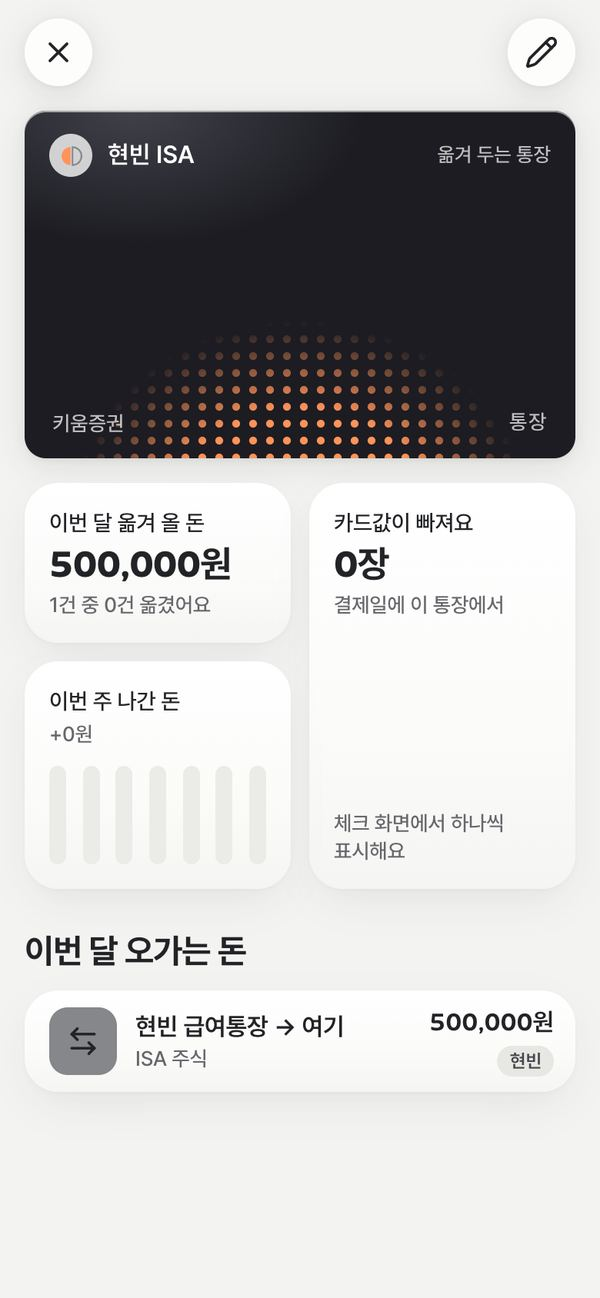
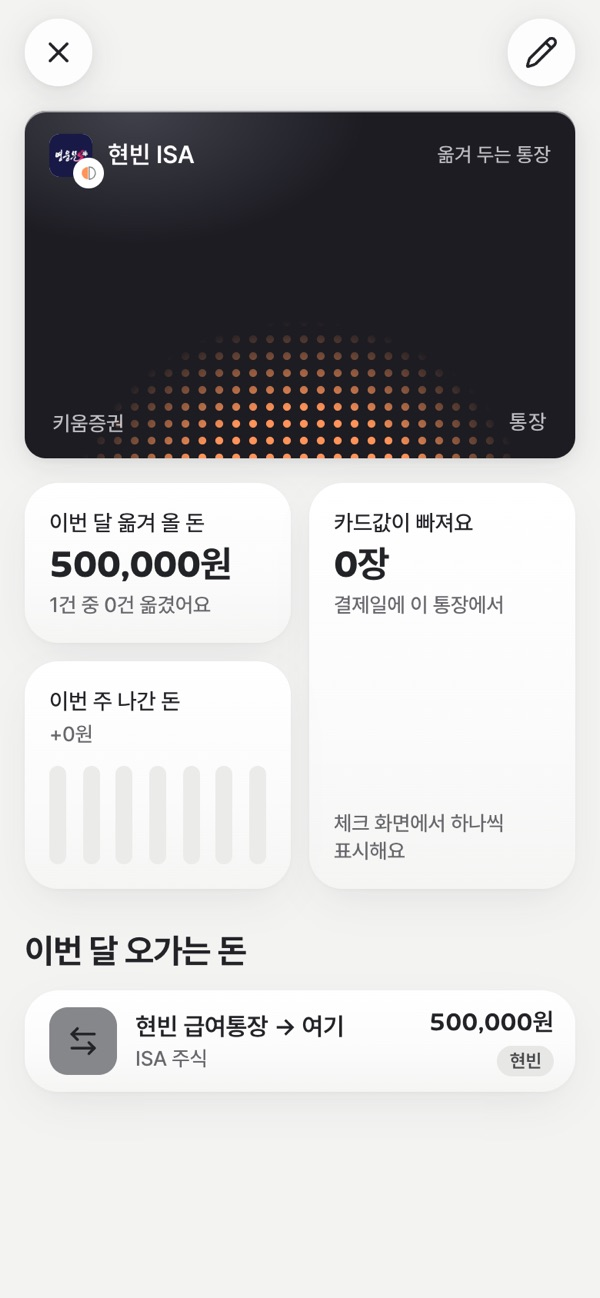
통장·카드에 은행·카드사·증권사 로고 — 공식 아이콘을 저장소에 두고, 주인은 귀퉁이 반쪽 동전으로
통장·카드 왼쪽 표시가 주인 반쪽 동전뿐이라 앱 아이콘처럼 보이고 어느 회사 것인지 알 수 없었다.
각 회사 공식 사이트·앱스토어 아이콘 36개를 96px PNG 로 받아 public/inst/ 에 두고(앱은 외부에 요청하지 않음, CSP img-src 'self' 그대로),
기관 이름으로 찾아 지갑·카드 추가 미리보기·고르기 칩에 보인다. 로고를 못 구한 곳은 이름 첫 글자.

Changed region(s): [[0.06, 0.0924, 0.18, 0.1541]]

diff --git a/apps/web/src/lib/institutions.ts b/apps/web/src/lib/institutions.ts
@@ -1,5 +1,6 @@
 // 은행·증권사·카드사 이름 — 지갑에 카드·통장을 넣을 때 몇 글자만 쳐도 고르게 한다.
-// 이름이 한 가지로 맞춰지면("삼성 카드" → "삼성카드") 나중에 카드 알림으로 카드사를 찾기 쉽다. 로고·색은 쓰지 않는다.
+// 이름이 한 가지로 맞춰지면("삼성 카드" → "삼성카드") 나중에 카드 알림으로 카드사를 찾기 쉽다.
+// 로고는 각 회사의 공식 사이트·앱 아이콘(96px, public/inst/)으로, 통장·카드가 어느 회사 것인지 알아보는 데만 쓴다 — 상표는 각 회사의 것.
 
 export const BANKS = [
   "KB국민은행", "신한은행", "우리은행", "하나은행", "NH농협은행", "IBK기업은행", "카카오뱅크", "케이뱅크", "토스뱅크",
@@ -31,4 +32,28 @@ export function suggestInstitutions(kind: "bank" | "card", typed: string, max = 
 export function canonicalInstitution(typed: string): string {
   const q = norm(typed);
   return [...CARD_ISSUERS, ...BANKS].find((n) => norm(n) === q) ?? typed.trim();
+}
+
+/** 목록 이름 → 로고 파일(public/inst/<이름>.png). 깔끔한 로고를 못 구한 곳(우체국·삼성카드)은 없음 → 첫 글자 배지 */
+const LOGO: Record<string, string> = {
+  KB국민은행: "kb", 신한은행: "shinhan", 우리은행: "woori", 하나은행: "hana", NH농협은행: "nh", IBK기업은행: "ibk", 카카오뱅크: "kakaobank",
+  케이뱅크: "kbank", 토스뱅크: "tossbank", SC제일은행: "sc", 한국씨티은행: "citi", KDB산업은행: "kdb", 수협은행: "suhyup", iM뱅크: "im",
+  부산은행: "busan", 경남은행: "kyongnam", 광주은행: "kjbank", 전북은행: "jbbank", 제주은행: "jeju", 새마을금고: "kfcc", 신협: "cu", 지역농협: "nh",
+  미래에셋증권: "miraeasset", 삼성증권: "samsungpop", 한국투자증권: "koreainvest", NH투자증권: "nhqv", KB증권: "kbsec", 키움증권: "kiwoom",
+  신한투자증권: "shinhansec", 토스증권: "tossinvest",
+  신한카드: "shinhancard", 현대카드: "hyundaicard", KB국민카드: "kbcard", 롯데카드: "lottecard", 하나카드: "hana", 우리카드: "wooricard",
+  BC카드: "bccard", NH농협카드: "nhcard",
+};
+
+// 적은 이름에 들어 있으면 맞는 것으로 보는 말: 목록 이름과, 앞 영문을 뗀 이름("KB국민은행" → "국민은행"). 너무 짧은 말("카드")은 뺀다
+const KEYS = Object.keys(LOGO)
+  .flatMap((n) => [norm(n), norm(n).replace(/^[a-z]+/, "")].filter((k) => k.length >= 3).map((k) => [k, LOGO[n]] as const))
+  .sort((a, b) => b[0].length - a[0].length);
+
+/** 기관 이름의 로고 파일 경로. "국민은행"·"카카오뱅크 모임통장"처럼 조금 달라도 가장 길게 맞는 이름으로 찾는다 */
+export function logoOf(institution: string): string | null {
+  const q = norm(institution);
+  if (!q) return null;
+  const hit = KEYS.find(([k]) => q.includes(k));
+  return hit ? `/inst/${hit[1]}.png` : null;
 }

diff --git a/apps/web/src/components/pass.tsx b/apps/web/src/components/pass.tsx
@@ -1,8 +1,10 @@
 "use client";
 
-import type { Account, Data, Group } from "@/lib/types";
+import type { Account, Data, Group, Owner } from "@/lib/types";
 import { useData } from "@/lib/store";
 import { spendingsIn } from "@/lib/calc";
+import { logoOf } from "@/lib/institutions";
+import { PersonGlyph } from "./ui";
 
 export const BUCKET: Partial<Record<Group, string>> = { living: "var(--g-living)", allowance: "var(--g-allowance)" };
 export const PERSON = { a: "var(--a)", b: "var(--b)", joint: "var(--joint)" } as const;
@@ -31,3 +33,29 @@ export function MiniCard({ account }: { account: Account }) {
   return <span className={`mini-pass ${art.className}`} style={art.style} aria-hidden="true" />;
 }
 
+
+/**
+ * 통장·카드 왼쪽 위 표시: 은행·카드사·증권사 로고(없으면 이름 첫 글자), 귀퉁이에 주인 반쪽 동전.
+ * 기관을 아직 안 적었으면 지금처럼 주인 반쪽 동전만.
+ */
+export function InstMark({ institution, owner }: { institution: string; owner: Owner }) {
+  const name = institution.trim();
+  if (!name) {
+    return (
+      <span className="who-dot">
+        <PersonGlyph owner={owner} />
+      </span>
+    );
+  }
+  const logo = logoOf(name);
+  return (
+    <span className="who-dot inst">
+      {/* 정적 내보내기라 next/image 최적화가 없다 — 96px 파일을 그대로 */}
+      {/* eslint-disable-next-line @next/next/no-img-element */}
+      {logo ? <img src={logo} alt="" width={28} height={28} decoding="async" /> : <span className="inst-initial">{name.replace(/^[A-Za-z]+/, "").slice(0, 1) || name.slice(0, 1)}</span>}
+      <span className="inst-owner">
+        <PersonGlyph owner={owner} />
+      </span>
+    </span>
+  );
+}

diff --git a/apps/web/src/app/wallet.css b/apps/web/src/app/wallet.css
@@ -50,6 +50,12 @@ button.pass:focus-visible .face { outline: 2px solid var(--accent-ink); outline-
 .pass .top { position: absolute; top: 0; right: 16px; left: 16px; display: flex; align-items: center; gap: 10px; height: var(--pass-peek); }
 .pass .who-dot { display: grid; flex: none; place-items: center; width: 28px; height: 28px; border-radius: var(--radius-chip); background: color-mix(in srgb, var(--surface) 78%, transparent); }
 .pass .who-dot svg { width: 19px; height: 19px; }
+/* 은행·카드사·증권사 로고(없으면 이름 첫 글자), 오른쪽 아래 귀퉁이에 주인 반쪽 동전 (components/pass.tsx InstMark) */
+.pass .who-dot.inst { position: relative; border-radius: var(--radius-logo); background: var(--surface); box-shadow: 0 0 0 1px color-mix(in srgb, var(--text) 8%, transparent); }
+.pass .who-dot.inst img { display: block; width: 28px; height: 28px; border-radius: inherit; }
+.pass .inst-initial { color: var(--text); font: 700 14px/1 var(--font-text); }
+.pass .inst-owner { position: absolute; right: -6px; bottom: -6px; display: grid; place-items: center; width: 17px; height: 17px; border-radius: var(--radius-chip); background: var(--surface); box-shadow: 0 0 0 1.5px var(--surface); }
+.pass .inst-owner svg { width: 13px; height: 13px; }
 .pass .nm { min-width: 0; overflow: hidden; font: 600 16px/22px var(--font-text); white-space: nowrap; text-overflow: ellipsis; }
 .pass .amt { margin-left: auto; font: 600 16px/22px var(--font-display); font-variant-numeric: tabular-nums; white-space: nowrap; }
 .pass .amt.soft { font: 500 13px/18px var(--font-text); opacity: 0.72; }

diff --git a/apps/web/src/components/AddPass.tsx b/apps/web/src/components/AddPass.tsx
@@ -8,8 +8,8 @@ import { useData } from "@/lib/store";
 import { nameOf } from "@/lib/calc";
 import { eul } from "@/lib/format";
 import { haptic } from "@/lib/native";
-import { canonicalInstitution, suggestInstitutions } from "@/lib/institutions";
-import { passArt } from "./pass";
+import { canonicalInstitution, logoOf, suggestInstitutions } from "@/lib/institutions";
+import { InstMark, passArt } from "./pass";
 import { PersonGlyph, Seg, Sheet } from "./ui";
 
 function newId(prefix: string) {
@@ -127,9 +127,7 @@ export function AddPass({ open, onOpenChange, account, kind: initialKind }: { op
               <span className="face">
                 <span className="sheen" />
                 <span className="top">
-                  <span className="who-dot">
-                    <PersonGlyph owner={owner} />
-                  </span>
+                  <InstMark institution={institution} owner={owner} />
                   <span className={`nm ${name ? "" : "ph"}`}>{name || (side === "card" ? "카드 이름" : "통장 이름")}</span>
                 </span>
                 <span className="bot">
@@ -184,6 +182,8 @@ export function AddPass({ open, onOpenChange, account, kind: initialKind }: { op
                   setInstFocus(false);
                 }}
               >
+                {/* eslint-disable-next-line @next/next/no-img-element */}
+                {logoOf(n) && <img className="chip-logo" src={logoOf(n)!} alt="" width={18} height={18} />}
                 {n}
               </button>
             ))}

diff --git a/apps/web/src/components/Wallet.tsx b/apps/web/src/components/Wallet.tsx
@@ -4,14 +4,14 @@ import { useEffect, useLayoutEffect, useRef, useState } from "react";
 import { createPortal } from "react-dom";
 import { ArrowLeftRight, Check, ChevronRight, Pencil, Plus, X } from "lucide-react";
 import type { Account, Data, Group, Spending } from "@/lib/types";
-import { BUCKET, PERSON, cardMix, passArt } from "./pass";
+import { BUCKET, InstMark, PERSON, cardMix, passArt } from "./pass";
 import { useData } from "@/lib/store";
 import { cardBills, checkId, findCheck, monthRow, nameOf, paydayDate, salaryAccount, spendingsIn } from "@/lib/calc";
 import { dDay, monthLabel, num, parseYmd, shortDate, ymd } from "@/lib/format";
 import { haptic } from "@/lib/native";
 import { cssTimeMs } from "@/lib/motion";
 import { spendingVisual } from "@/lib/categories";
-import { CategoryIcon, PersonGlyph, useBackToClose } from "./ui";
+import { CategoryIcon, useBackToClose } from "./ui";
 import { useSheets } from "./Shell";
 import { useTasks } from "./tasks";
 
@@ -54,9 +54,7 @@ function Face({ p }: { p: PassInfo }) {
     <span className="face">
       <span className="sheen" />
       <span className="top">
-        <span className="who-dot">
-          <PersonGlyph owner={a.owner} />
-        </span>
+        <InstMark institution={a.institution} owner={a.owner} />
         <span className="nm">{a.name}</span>
         <span className={p.amount ? "amt" : "amt soft"}>{p.right}</span>
       </span>

diff --git a/apps/web/src/app/controls.css b/apps/web/src/app/controls.css
@@ -223,6 +223,7 @@ button.row:active, a.row:active { background: var(--well); transform: scale(0.98
   box-shadow: inset 0 0 0 1.5px color-mix(in srgb, var(--accent-ink) 30%, transparent);
 }
 .chip .count { opacity: 0.7; font-variant-numeric: tabular-nums; }
+.chip .chip-logo { flex: none; width: 18px; height: 18px; margin-left: -4px; border-radius: var(--radius-logo); }
 .chip-sep { flex: none; align-self: center; width: 1px; height: 20px; background: var(--border); }
 
 /* ---------- 세그먼트 (Segmented) ---------- */

diff --git a/apps/web/src/app/tokens.css b/apps/web/src/app/tokens.css
@@ -95,6 +95,7 @@
   --radius-control: 16px;
   --radius-small: 12px;
   --radius-pass: 14px;
+  --radius-logo: 7px;
   --radius-chip: 999px;
   --shadow-raise: 0 1px 4px 0 #2223260f;
   --shadow-card: 0 1px 2px 0 #22232608, 0 10px 28px -8px #2223261a;

diff --git a/docs/design-system/components/Wallet/README.md b/docs/design-system/components/Wallet/README.md
@@ -14,7 +14,7 @@
   - 카드마다 위 띠 `pass-peek`(58px)만 보이게 겹치고, 맨 아래 카드만 다 보입니다.
   - 순서는 신용카드 → 통장이고, 그 안에서는 사용자가 정한 `sort`를 따릅니다.
 - **위 띠(한 줄):**
-  - 왼쪽: 주인 표시(28px 반투명 흰 원 안의 동전 반쪽)와 카드 이름(600 16px)
+  - 왼쪽: 기관 표시와 카드 이름(600 16px). 기관 표시는 은행·카드사·증권사 로고(28px, `radius-logo`)이고, 오른쪽 아래 귀퉁이에 주인 반쪽 동전(17px 원)을 겹칩니다. 로고가 없는 기관은 이름 첫 글자, 기관을 안 적었으면 주인 반쪽 동전만(28px 반투명 흰 원) 둡니다(`components/pass.tsx` `InstMark`).
   - 오른쪽, 신용카드: 이번 달 카드값(`display` 600 16px, 고정폭)
   - 오른쪽, 통장: 하는 일("월급 25일", "카드 1장 결제", 13px 72%)
 - **아래 줄:** 왼쪽에 기관 이름, 오른쪽에 신용카드는 "•••• 4821"(끝 4자리), 통장은 "통장"을 13.5px 72%로 씁니다.
@@ -90,7 +90,8 @@
 - 움직임 줄이기 설정이면 옮김·기울기·빛을 모두 끄고 바로 바꿉니다.
 
 ## 하지 말 것
-- 실제 은행·카드사 로고, 카드 실물 사진, 카드사가 만든 카드 그림을 가져오지 않습니다(공개 API가 없고, 긁어오면 저작권·상표 문제). 카드 그림은 버킷 색, 주인 색, 사용자가 고른 여덟 색으로만 그립니다.
+- 카드 실물 사진이나 카드사가 만든 카드 그림을 가져오지 않습니다. 카드 그림은 버킷 색, 주인 색, 사용자가 고른 여덟 색으로만 그립니다.
+- 로고는 기관 표시(28px)와 고르기 칩에만 씁니다. 각 회사 공식 사이트·앱스토어 앱 아이콘을 96px PNG 로 받아 `apps/web/public/inst/` 에 둔 것으로(앱이 외부에 요청하지 않음), 어느 회사 통장·카드인지 알아보는 데만 씁니다. 상표는 각 회사의 것입니다. 이름과 파일은 `lib/institutions.ts` `logoOf` 가 잇습니다("국민은행"·"카카오뱅크 모임통장"처럼 조금 달라도 가장 길게 맞는 이름으로). 깔끔한 로고를 못 구한 우체국·삼성카드는 첫 글자입니다.
 - 카드 번호는 끝 4자리만 씁니다. 유효기간·CVC 칸은 만들지 않습니다.
 - 잔액을 지어내지 않습니다. 이 앱은 잔액을 관리하지 않으므로, 통장 띠에는 하는 일을 씁니다.
 - 카드를 다섯 장 넘게 묶어 띠가 화면을 넘으면 묶음 안에서 스크롤합니다. 띠 높이를 줄이지 않습니다.

diff --git a/docs/design-system/components/AddPass/README.md b/docs/design-system/components/AddPass/README.md
@@ -30,7 +30,7 @@
 - 숨긴 카드는 지갑 `…` → "숨긴 카드"에서 되살립니다.
 
 ## 카드사·은행 고르기와 색
-- **카드사/은행 칸:** 몇 글자만 쳐도 아래에 맞는 이름이 칩으로 뜹니다(카드사 목록 / 은행·증권사 목록, 앞에서 맞는 것 먼저 6개). 칩을 누르면 그 이름이 들어갑니다. 띄어쓰기·대소문자만 다르게 쳐도 칸을 떠날 때 목록의 이름으로 맞춥니다("kb 국민 카드" → "KB국민카드"). 이름이 한 가지로 맞춰져야 카드 알림으로 카드사를 찾을 때 헷갈리지 않습니다. 목록에 없는 이름도 그대로 적을 수 있습니다.
+- **카드사/은행 칸:** 몇 글자만 쳐도 아래에 맞는 이름이 칩으로 뜹니다(카드사 목록 / 은행·증권사 목록, 앞에서 맞는 것 먼저 6개). 칩에는 그 회사 로고(18px)가 앞에 붙고, 누르면 그 이름이 들어가며 위 미리보기 카드의 기관 표시도 그 로고로 바뀝니다. 띄어쓰기·대소문자만 다르게 쳐도 칸을 떠날 때 목록의 이름으로 맞춥니다("kb 국민 카드" → "KB국민카드"). 이름이 한 가지로 맞춰져야 카드 알림으로 카드사를 찾을 때 헷갈리지 않습니다. 목록에 없는 이름도 그대로 적을 수 있습니다.
 - **색(신용카드만):** "자동"과 여덟 색 동그라미를 한 줄에 둡니다. 고르면 미리보기 카드가 바로 그 색이 됩니다. "자동"은 이번 달 쓴 버킷 색 번짐입니다(Wallet). 저장은 `accounts.color`(migrations/008)입니다.
 
 ## 앱에서
@@ -45,4 +45,4 @@
 ## 하지 말 것
 - 카드 번호 전체, 유효기간, CVC를 받지 않습니다. 끝 4자리는 카드 알림에서 카드를 찾는 데만 씁니다.
 - 카메라로 카드 읽기를 넣지 않습니다(번호 전체를 다루게 됨).
-- 실제 카드사 로고나 카드 그림을 고르게 하지 않습니다.
+- 카드사가 만든 카드 그림을 고르게 하지 않습니다(로고는 기관 표시와 칩에만).

diff --git a/CHANGELOG.md b/CHANGELOG.md
@@ -9,6 +9,7 @@
 
 - 달력 첫 화면에서 아래로 내릴 때 **고무줄처럼 버텨요**. 손가락보다 덜 따라오다가, 조금만 끌고 놓으면 달력으로 돌아오고 충분히 끌거나 빠르게 튕기면 모아 보기로 넘어가요. 모아 보기가 짧을 때(할 일을 다 끝낸 달 등) 내려도 아래 메뉴가 돌아오지 않던 것도 고쳤어요.
 - 달력에서 며칠에 걸친 일정은 날짜마다 이름을 쓰지 않고 **날짜 바로 아래 맨 위에 이어진 얇은 줄**(입력한 사람 색)로만 보여요. 여러 개가 겹쳐도 하루 일정 자리를 거의 차지하지 않고, 같은 일정은 그 주 내내 같은 줄에 있어요. 이름은 날짜를 누르면 나와요.
+- 지갑의 통장·카드와 카드 추가 화면에 **은행·카드사·증권사 로고**가 보여요. 카드사·은행 칸에서 고르는 이름 앞에도 로고가 붙고, 고르면 미리보기 카드도 그 로고로 바뀌어요. 누구 것인지는 로고 귀퉁이의 작은 반쪽 동전으로 보여요. 로고를 못 구한 곳(우체국·삼성카드)은 이름 첫 글자예요.
 - **DB 이전:** 없음
 
 ## v0.6.0 — 2026-11-12
